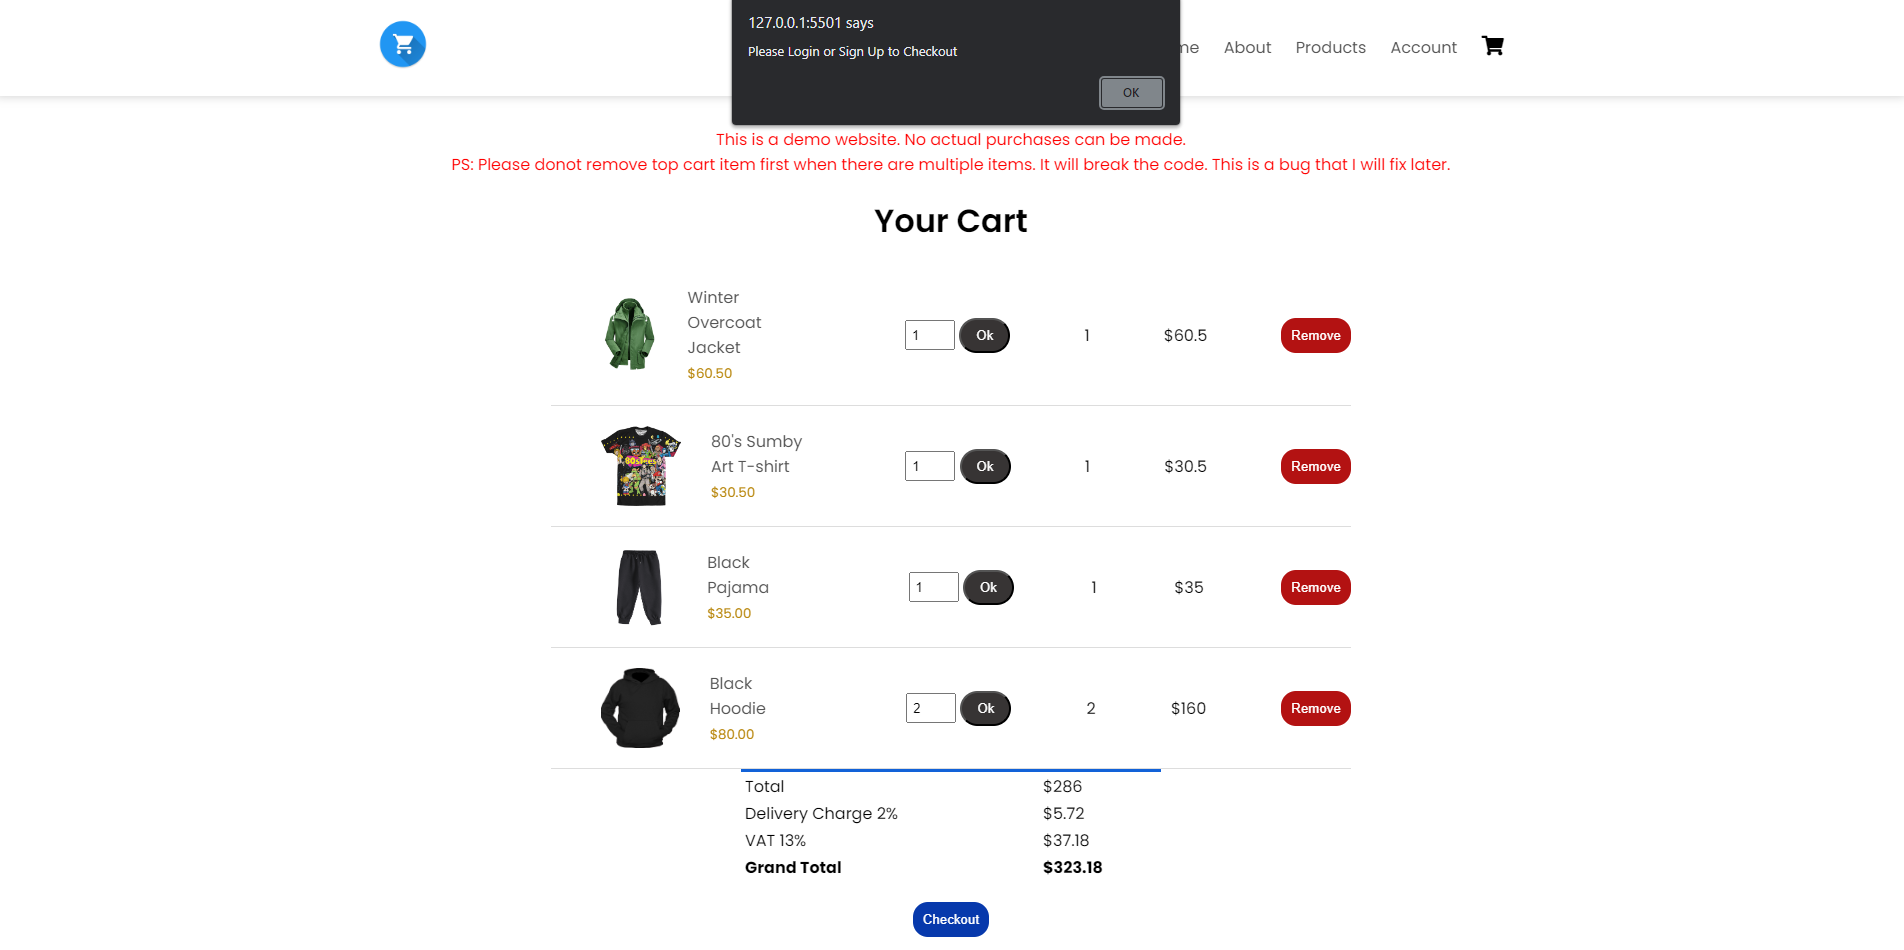
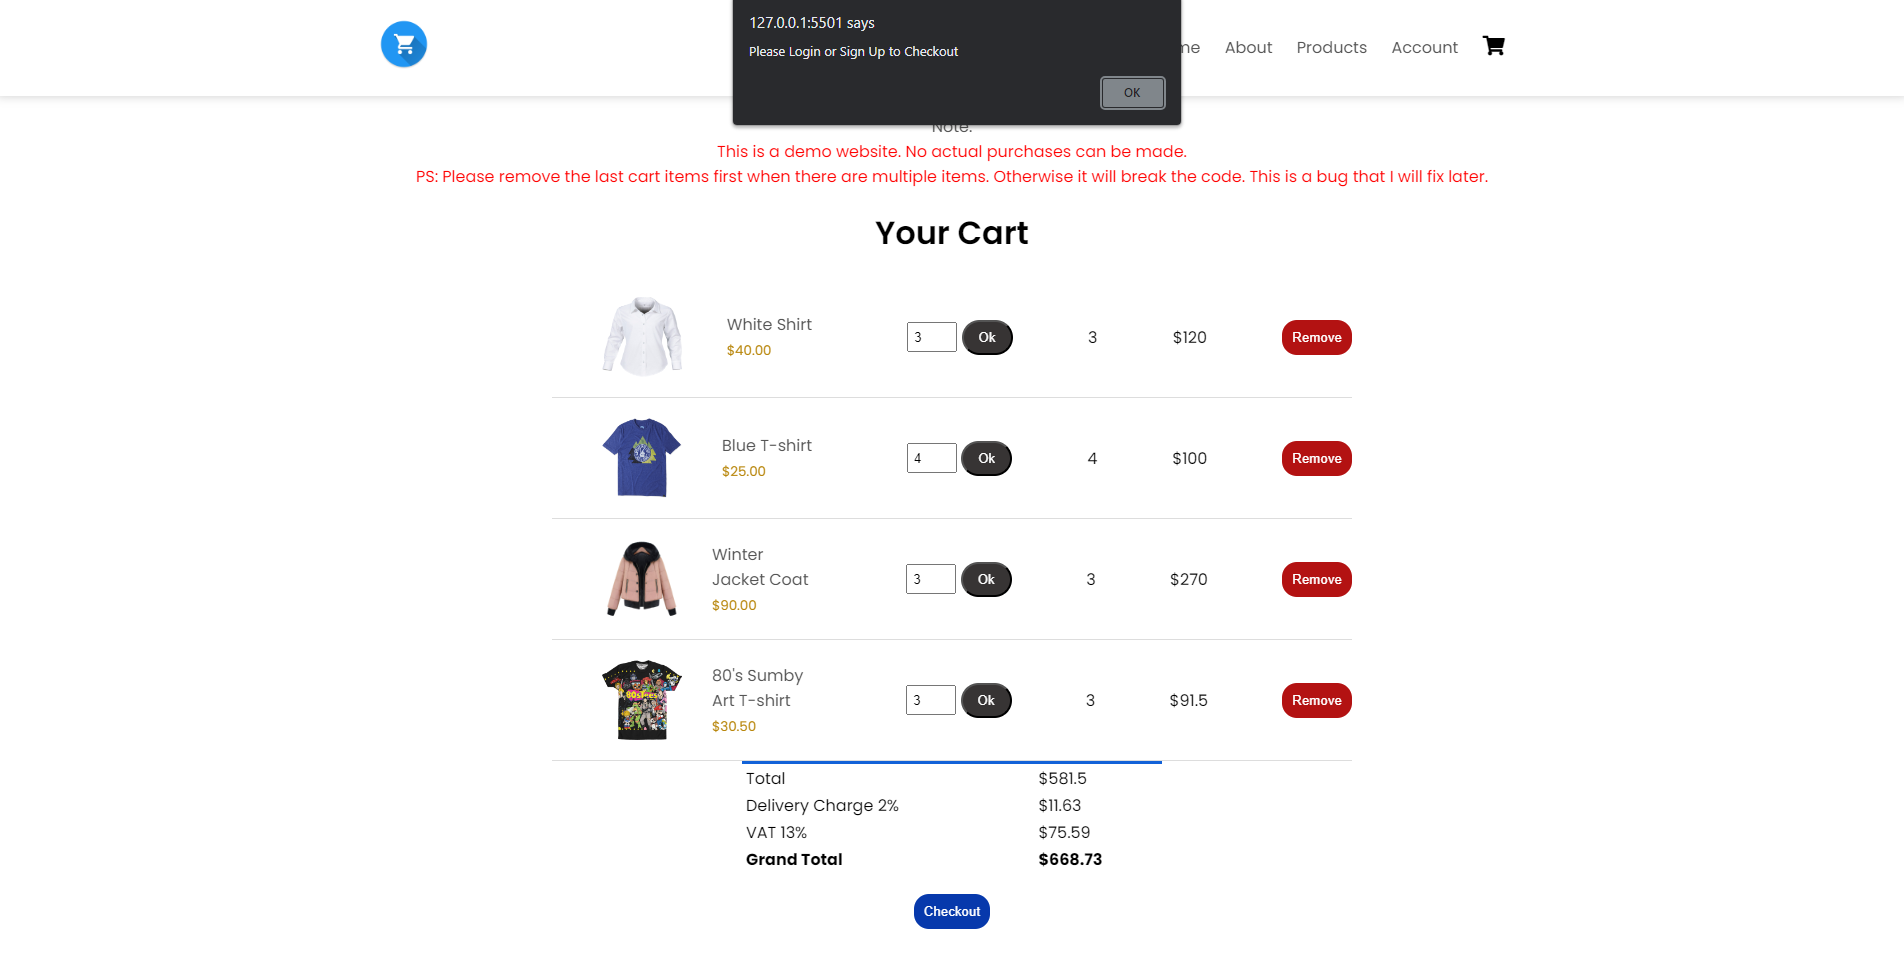
final commit for this project 2

diff --git a/website/cart.js b/website/cart.js
@@ -49,7 +49,7 @@ for (let i = 0; i < cartItems.length; i++) {
 }
 let VAT = 0.13 * Total;
 let deliveryCharge = 0.02 * Total;
-let GrandTotal = Total + VAT;
+let GrandTotal = Total + VAT + deliveryCharge;
 
 grandTotal.innerHTML = `<tr>
 <td></td>
@@ -104,6 +104,7 @@ for (let i = 0; i < orderQuantity.length; i++) {
       deliveryCharge = 0.02 * Total;
       VAT = 0.13 * Total;
       GrandTotal = Total + VAT + deliveryCharge;
+      console.log(GrandTotal);
       delCharge.innerHTML = `$${deliveryCharge.toFixed(2)}`;
       orderTotal.innerHTML = `$${Total}`;
       vat.innerHTML = `$${VAT.toFixed(2)}`;
@@ -127,7 +128,6 @@ if (cartItems.length == 0) {
 for (let i = 0; i < removeCartBtn.length; i++) {
   removeCartBtn[i].addEventListener("click", () => {
     let value = parentElement[i].children[1].children[0].value;
-
 
     //remove the item from cartdata
     if (cartItems[i].productid == productid[i]) {

diff --git a/website/cart.html b/website/cart.html
@@ -24,7 +24,7 @@
     <!-- cart-details -->
     <div class="cart-page">
         <div id="note"><p>Note:</p> This is a demo website. No actual purchases can be made.<br>
-            PS: Please donot remove top cart item first when there are multiple items. It will break the code. This is a bug that I will fix later.
+            PS: Please remove the last cart items first when there are multiple items. Otherwise it will break the code. This is a bug that I will fix later.
         </div>
         <div class="cart_header">
             <h2 id="cart_title"></h2>

diff --git a/website/product-details.js b/website/product-details.js
@@ -99,6 +99,7 @@ addtocart.addEventListener("click", () => {
 
   cartdata.push(cartItems);
 
+
   //add cartdata to localstorage
   localStorage.setItem("cartdata", JSON.stringify(cartdata));
   alert("Product added to cart");
